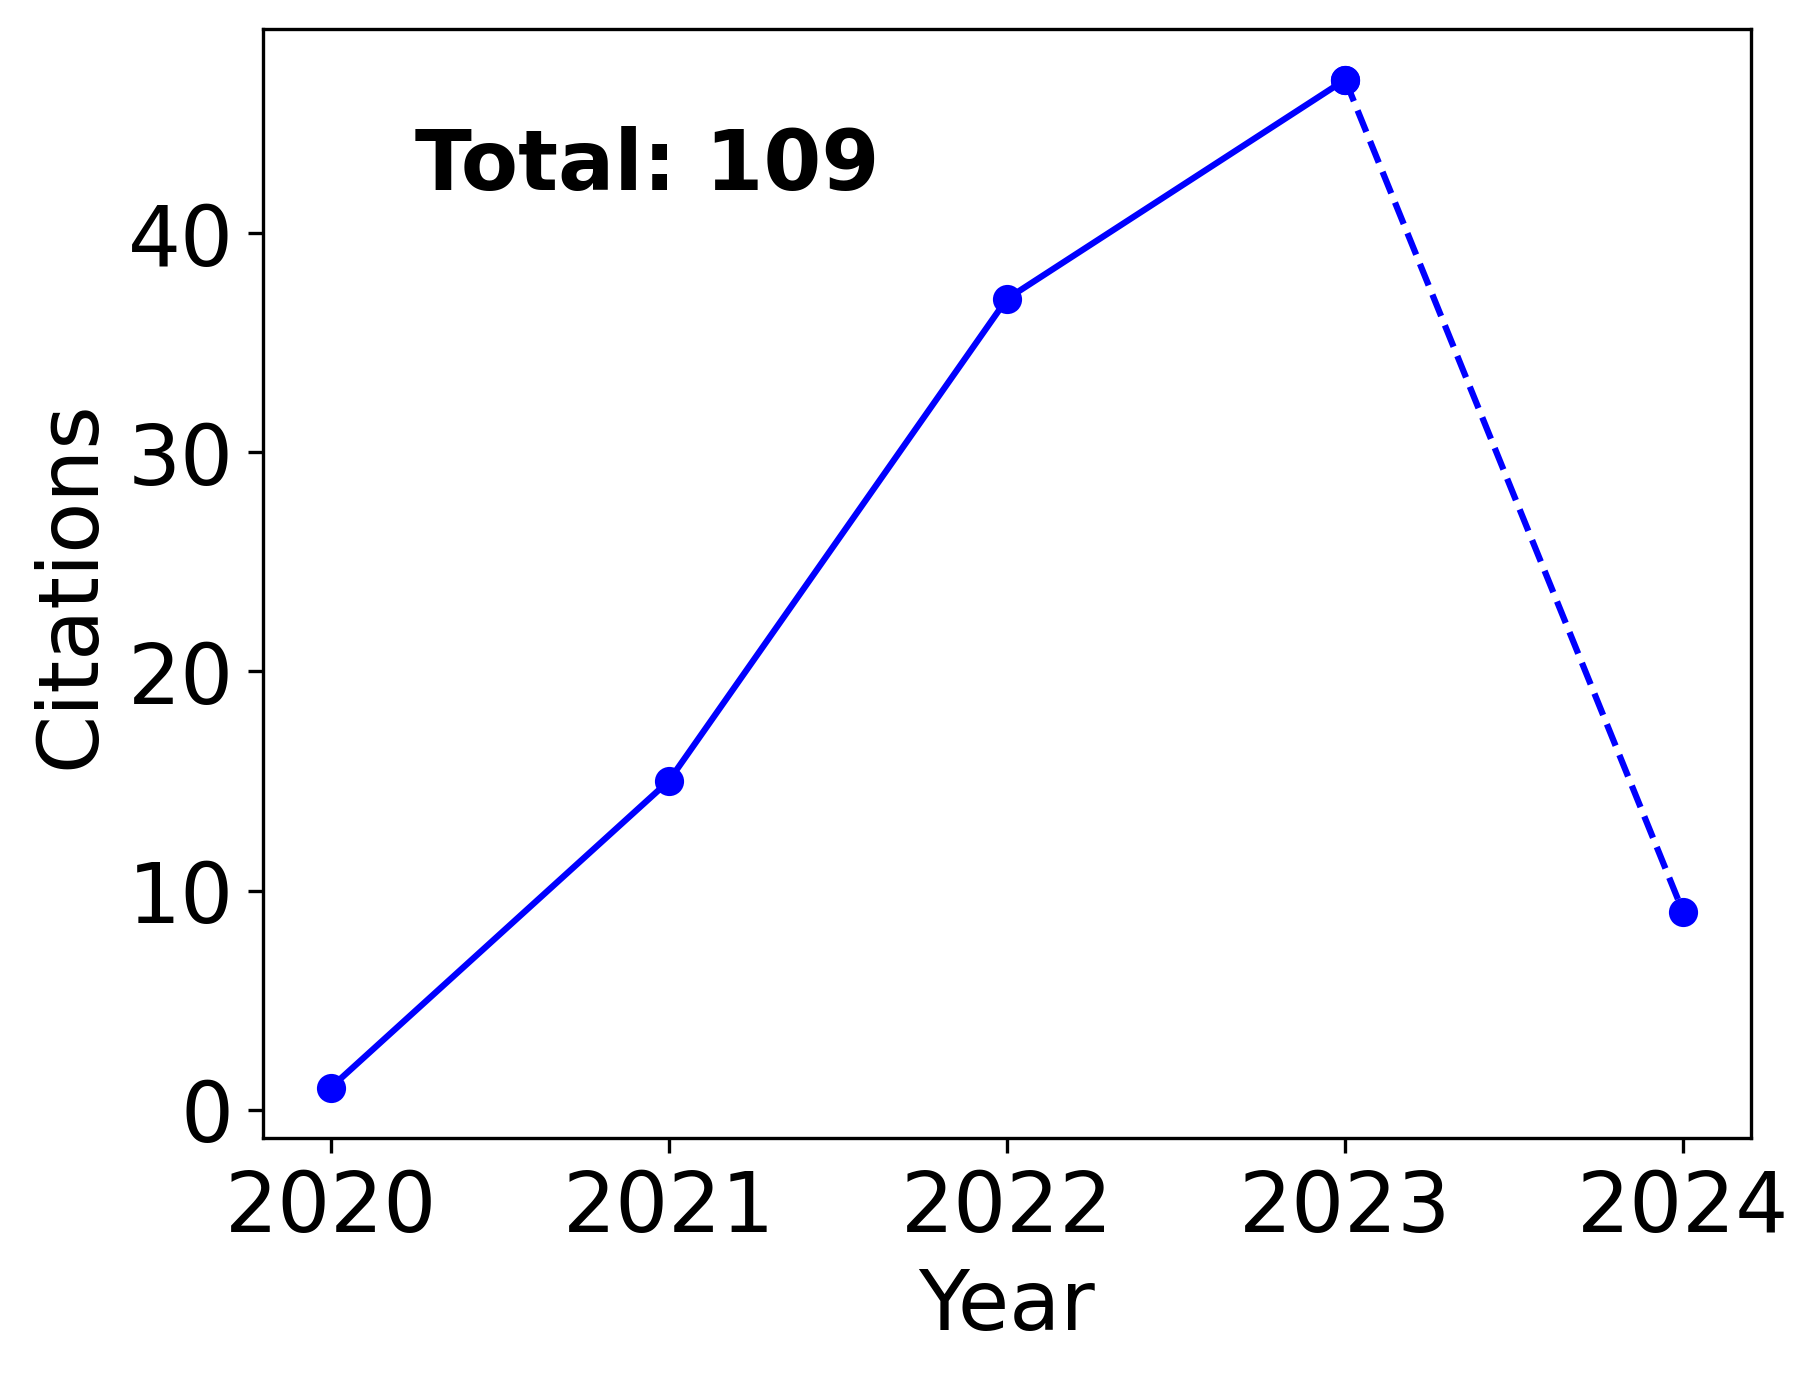
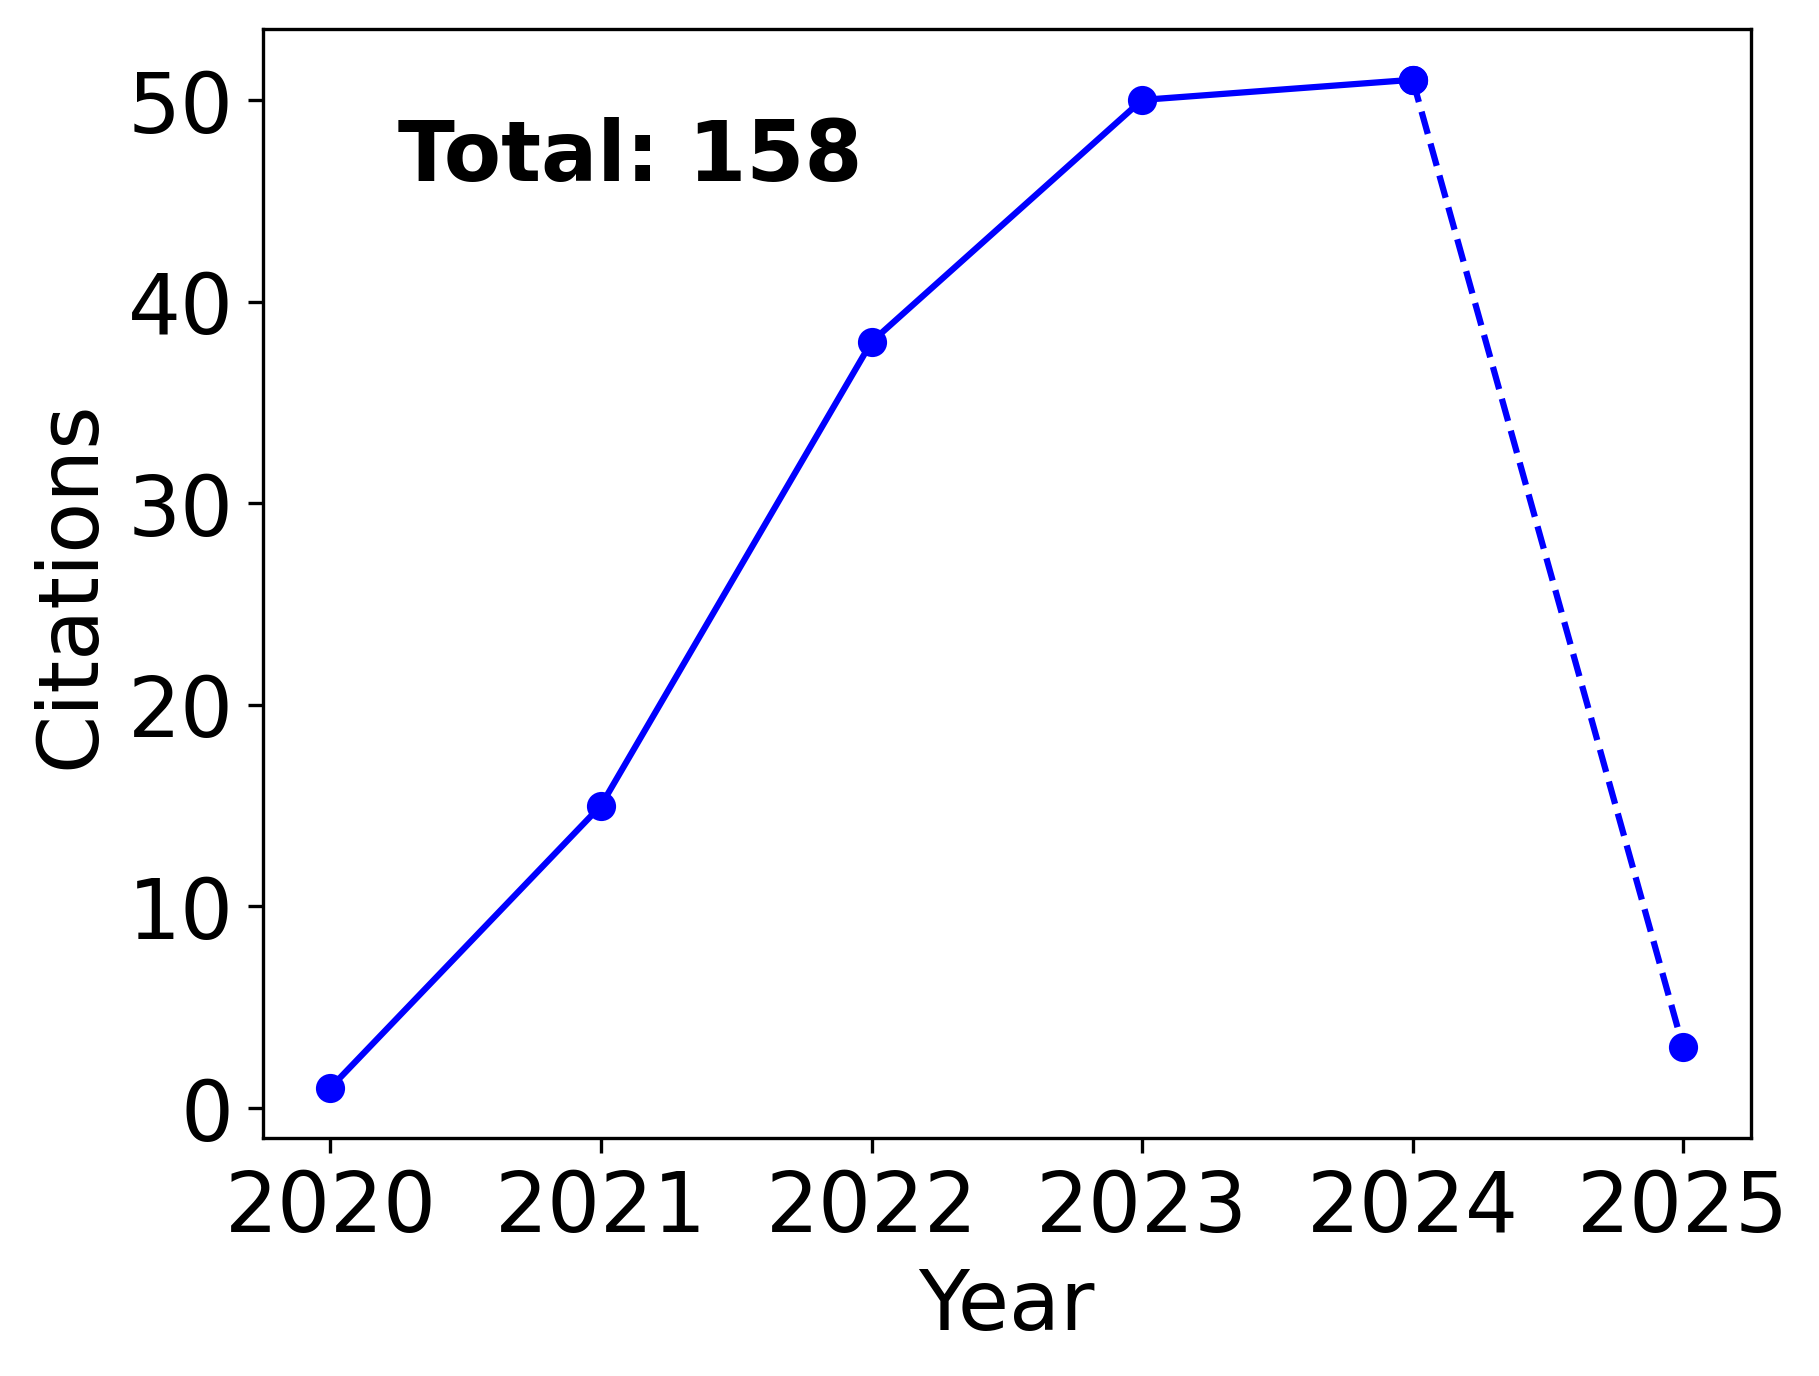
update inspire citations with 2025 numbers

diff --git a/figures/code/inspire_citations.py b/figures/code/inspire_citations.py
@@ -2,8 +2,8 @@ from pathlib import Path
 
 import matplotlib.pyplot as plt
 
-dates = [2020, 2021, 2022, 2023, 2024]
-citations = [1, 15, 37, 47, 9]
+dates = [2020, 2021, 2022, 2023, 2024, 2025]
+citations = [1, 15, 38, 50, 51, 3]
 
 fig, ax = plt.subplots()
 
